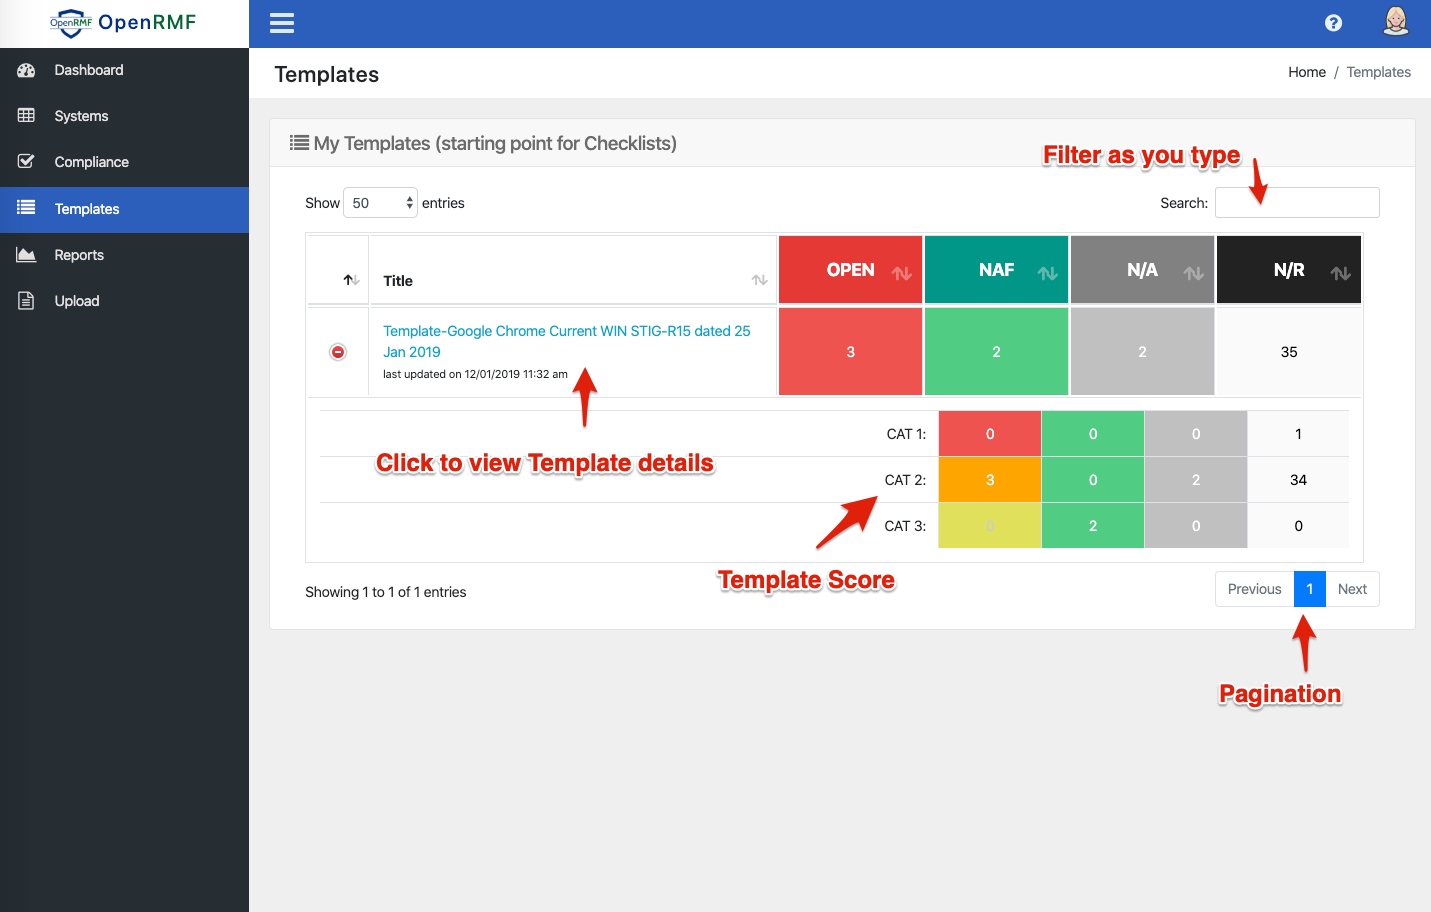
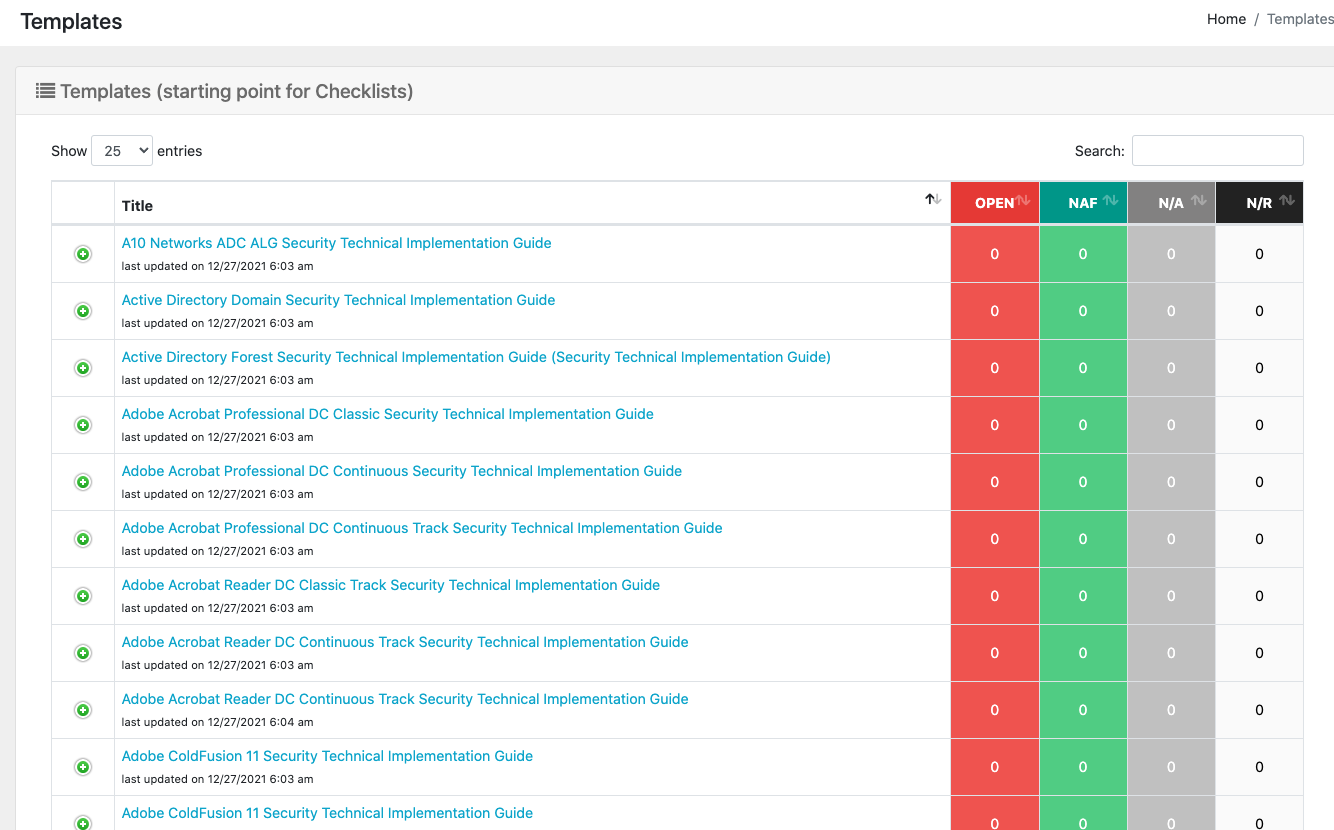
updating help and template listings

diff --git a/help/_site/templates.html b/help/_site/templates.html
@@ -1,1 +1,1 @@
-<!DOCTYPE html> <html lang="en-US"> <head> <meta charset="UTF-8"> <meta http-equiv="X-UA-Compatible" content="IE=Edge"> <title>Using Template Checklists - OpenRMF Docs</title> <link rel="shortcut icon" href="/help/favicon.ico" type="image/x-icon"> <link rel="stylesheet" href="/help/assets/css/just-the-docs-default.css"> <script type="text/javascript" src="/help/assets/js/vendor/lunr.min.js"></script> <script type="text/javascript" src="/help/assets/js/just-the-docs.js"></script> <meta name="viewport" content="width=device-width, initial-scale=1"> <!-- Begin Jekyll SEO tag v2.6.1 --> <title>Using Template Checklists | OpenRMF Docs</title> <meta name="generator" content="Jekyll v4.1.1" /> <meta property="og:title" content="Using Template Checklists" /> <meta property="og:locale" content="en_US" /> <meta name="description" content="OpenRMF is the only open source tool to manage your DoD STIG checklists, generate NIST compliance, keep track of your security items that are Open or Not Reviewed, and shrink your timeline to submit for an ATO!" /> <meta property="og:description" content="OpenRMF is the only open source tool to manage your DoD STIG checklists, generate NIST compliance, keep track of your security items that are Open or Not Reviewed, and shrink your timeline to submit for an ATO!" /> <meta property="og:site_name" content="OpenRMF Docs" /> <script type="application/ld+json"> {"url":"/help/templates.html","description":"OpenRMF is the only open source tool to manage your DoD STIG checklists, generate NIST compliance, keep track of your security items that are Open or Not Reviewed, and shrink your timeline to submit for an ATO!","headline":"Using Template Checklists","@type":"WebPage","@context":"https://schema.org"}</script> <!-- End Jekyll SEO tag --> </head> <body> <svg xmlns="http://www.w3.org/2000/svg" style="display: none;"> <symbol id="svg-link" viewBox="0 0 24 24"> <title>Link</title> <svg xmlns="http://www.w3.org/2000/svg" width="24" height="24" viewBox="0 0 24 24" fill="none" stroke="currentColor" stroke-width="2" stroke-linecap="round" stroke-linejoin="round" class="feather feather-link"> <path d="M10 13a5 5 0 0 0 7.54.54l3-3a5 5 0 0 0-7.07-7.07l-1.72 1.71"></path><path d="M14 11a5 5 0 0 0-7.54-.54l-3 3a5 5 0 0 0 7.07 7.07l1.71-1.71"></path> </svg> </symbol> <symbol id="svg-search" viewBox="0 0 24 24"> <title>Search</title> <svg xmlns="http://www.w3.org/2000/svg" width="24" height="24" viewBox="0 0 24 24" fill="none" stroke="currentColor" stroke-width="2" stroke-linecap="round" stroke-linejoin="round" class="feather feather-search"> <circle cx="11" cy="11" r="8"></circle><line x1="21" y1="21" x2="16.65" y2="16.65"></line> </svg> </symbol> <symbol id="svg-menu" viewBox="0 0 24 24"> <title>Menu</title> <svg xmlns="http://www.w3.org/2000/svg" width="24" height="24" viewBox="0 0 24 24" fill="none" stroke="currentColor" stroke-width="2" stroke-linecap="round" stroke-linejoin="round" class="feather feather-menu"> <line x1="3" y1="12" x2="21" y2="12"></line><line x1="3" y1="6" x2="21" y2="6"></line><line x1="3" y1="18" x2="21" y2="18"></line> </svg> </symbol> <symbol id="svg-arrow-right" viewBox="0 0 24 24"> <title>Expand</title> <svg xmlns="http://www.w3.org/2000/svg" width="24" height="24" viewBox="0 0 24 24" fill="none" stroke="currentColor" stroke-width="2" stroke-linecap="round" stroke-linejoin="round" class="feather feather-chevron-right"> <polyline points="9 18 15 12 9 6"></polyline> </svg> </symbol> <symbol id="svg-doc" viewBox="0 0 24 24"> <title>Document</title> <svg xmlns="http://www.w3.org/2000/svg" width="24" height="24" viewBox="0 0 24 24" fill="none" stroke="currentColor" stroke-width="2" stroke-linecap="round" stroke-linejoin="round" class="feather feather-file"> <path d="M13 2H6a2 2 0 0 0-2 2v16a2 2 0 0 0 2 2h12a2 2 0 0 0 2-2V9z"></path><polyline points="13 2 13 9 20 9"></polyline> </svg> </symbol> </svg> <div class="side-bar"> <div class="site-header"> <a href="/help/" class="site-title lh-tight"> OpenRMF Docs </a> <a href="#" id="menu-button" class="site-button"> <svg viewBox="0 0 24 24" class="icon"><use xlink:href="#svg-menu"></use></svg> </a> </div> <nav role="navigation" aria-label="Main" id="site-nav" class="site-nav"> <ul class="nav-list"><li class="nav-list-item"><a href="/help/" class="nav-list-link">OpenRMF Introduction</a></li><li class="nav-list-item"><a href="/help/whatsnew.html" class="nav-list-link">What's New in v1.7</a></li><li class="nav-list-item"><a href="/help/navigation.html" class="nav-list-link">Navigation in OpenRMF</a></li><li class="nav-list-item"><a href="/help/uploading.html" class="nav-list-link">Step 1 - Uploading</a></li><li class="nav-list-item"><a href="/help/dashboard.html" class="nav-list-link">Step 2 - Your Dashboard</a></li><li class="nav-list-item"><a href="/help/systems.html" class="nav-list-link">Step 3 - View Systems</a></li><li class="nav-list-item"><a href="/help/checklists.html" class="nav-list-link">Step 4 - View Checklists</a></li><li class="nav-list-item"><a href="/help/compliance.html" class="nav-list-link">Step 5 - Compliance Report</a></li><li class="nav-list-item"><a href="/help/artifacts.html" class="nav-list-link">Step 6 - Generate RMF Artifacts</a></li><li class="nav-list-item active"><a href="/help/templates.html" class="nav-list-link active">Using Template Checklists</a></li><li class="nav-list-item"><a href="/help/reports.html" class="nav-list-link">OpenRMF Reports</a></li><li class="nav-list-item"><a href="/help/metrics.html" class="nav-list-link">OpenRMF Metrics</a></li><li class="nav-list-item"><a href="/help/users.html" class="nav-list-link">User Profile</a></li></ul> </nav> <footer class="site-footer"> This site uses <a href="https://github.com/pmarsceill/just-the-docs">Just the Docs</a>, a documentation theme for Jekyll. </footer> </div> <div class="main" id="top"> <div id="main-header" class="main-header"> <div class="search"> <div class="search-input-wrap"> <input type="text" id="search-input" class="search-input" tabindex="0" placeholder="Search OpenRMF Docs" aria-label="Search OpenRMF Docs" autocomplete="off"> <label for="search-input" class="search-label"><svg viewBox="0 0 24 24" class="search-icon"><use xlink:href="#svg-search"></use></svg></label> </div> <div id="search-results" class="search-results"></div> </div> <nav aria-label="Auxiliary" class="aux-nav"> <ul class="aux-nav-list"> <li class="aux-nav-list-item"> <a href="//www.openrmf.io/" class="site-button" > openrmf.io </a> </li> <li class="aux-nav-list-item"> <a href="//github.com/cingulara/openrmf-docs/" class="site-button" > Code on GitHub </a> </li> <li class="aux-nav-list-item"> <a href="https://join.slack.com/t/openrmftool/shared_invite/zt-ck8lqld0-8LD7k66mzj7WsIno9YFrMg" class="site-button" > Slack </a> </li> </ul> </nav> </div> <div id="main-content-wrap" class="main-content-wrap"> <div id="main-content" class="main-content" role="main"> <h1 id="using-templates-for-your-checklists"> <a href="#using-templates-for-your-checklists" class="anchor-heading"><svg viewBox="0 0 16 16" aria-hidden="true"><use xlink:href="#svg-link"></use></svg></a> Using Templates for your Checklists </h1> <p><img src="./assets/templates.png" alt="OpenRMF Templates" /></p> <p>You can use Templates in OpenRMF for a starting point for your checklists. A great example would be you have an infrastructure package and a platform-as-a-service package that your application(s) run on. That infrastructure and PaaS have known good checklists as a baseline that application owners use as a starting point and adjust the remaining vulnerability items accordingly.</p> <p>IT personnel would download this template and then fill out remaining items based on their software or system.</p> <p>The templates are added via the Upload page in the Template Upload area. The Template listing are user templates that those with permissions have added. The Template name as well as the score of items are shown simimlar to the Checklist listing page. Click the linked Template to view the detailed information. Click the green plus sign to view the scoring based on category.</p> <hr> <footer> <p class="text-small text-grey-dk-000 mb-0">Copyright &copy; 2020 Cingulara and Tutela. Distributed by <a href="https://www.openrmf.io" target="_blank">openrmf.io.</a></p> </footer> </div> </div> <div class="search-overlay"></div> </div> </body> </html>
+<!DOCTYPE html> <html lang="en-US"> <head> <meta charset="UTF-8"> <meta http-equiv="X-UA-Compatible" content="IE=Edge"> <title>Using Template Checklists - OpenRMF Docs</title> <link rel="shortcut icon" href="/help/favicon.ico" type="image/x-icon"> <link rel="stylesheet" href="/help/assets/css/just-the-docs-default.css"> <script type="text/javascript" src="/help/assets/js/vendor/lunr.min.js"></script> <script type="text/javascript" src="/help/assets/js/just-the-docs.js"></script> <meta name="viewport" content="width=device-width, initial-scale=1"> <!-- Begin Jekyll SEO tag v2.6.1 --> <title>Using Template Checklists | OpenRMF Docs</title> <meta name="generator" content="Jekyll v4.1.1" /> <meta property="og:title" content="Using Template Checklists" /> <meta property="og:locale" content="en_US" /> <meta name="description" content="OpenRMF is the only open source tool to manage your DoD STIG checklists, generate NIST compliance, keep track of your security items that are Open or Not Reviewed, and shrink your timeline to submit for an ATO!" /> <meta property="og:description" content="OpenRMF is the only open source tool to manage your DoD STIG checklists, generate NIST compliance, keep track of your security items that are Open or Not Reviewed, and shrink your timeline to submit for an ATO!" /> <meta property="og:site_name" content="OpenRMF Docs" /> <script type="application/ld+json"> {"url":"/help/templates.html","description":"OpenRMF is the only open source tool to manage your DoD STIG checklists, generate NIST compliance, keep track of your security items that are Open or Not Reviewed, and shrink your timeline to submit for an ATO!","headline":"Using Template Checklists","@type":"WebPage","@context":"https://schema.org"}</script> <!-- End Jekyll SEO tag --> </head> <body> <svg xmlns="http://www.w3.org/2000/svg" style="display: none;"> <symbol id="svg-link" viewBox="0 0 24 24"> <title>Link</title> <svg xmlns="http://www.w3.org/2000/svg" width="24" height="24" viewBox="0 0 24 24" fill="none" stroke="currentColor" stroke-width="2" stroke-linecap="round" stroke-linejoin="round" class="feather feather-link"> <path d="M10 13a5 5 0 0 0 7.54.54l3-3a5 5 0 0 0-7.07-7.07l-1.72 1.71"></path><path d="M14 11a5 5 0 0 0-7.54-.54l-3 3a5 5 0 0 0 7.07 7.07l1.71-1.71"></path> </svg> </symbol> <symbol id="svg-search" viewBox="0 0 24 24"> <title>Search</title> <svg xmlns="http://www.w3.org/2000/svg" width="24" height="24" viewBox="0 0 24 24" fill="none" stroke="currentColor" stroke-width="2" stroke-linecap="round" stroke-linejoin="round" class="feather feather-search"> <circle cx="11" cy="11" r="8"></circle><line x1="21" y1="21" x2="16.65" y2="16.65"></line> </svg> </symbol> <symbol id="svg-menu" viewBox="0 0 24 24"> <title>Menu</title> <svg xmlns="http://www.w3.org/2000/svg" width="24" height="24" viewBox="0 0 24 24" fill="none" stroke="currentColor" stroke-width="2" stroke-linecap="round" stroke-linejoin="round" class="feather feather-menu"> <line x1="3" y1="12" x2="21" y2="12"></line><line x1="3" y1="6" x2="21" y2="6"></line><line x1="3" y1="18" x2="21" y2="18"></line> </svg> </symbol> <symbol id="svg-arrow-right" viewBox="0 0 24 24"> <title>Expand</title> <svg xmlns="http://www.w3.org/2000/svg" width="24" height="24" viewBox="0 0 24 24" fill="none" stroke="currentColor" stroke-width="2" stroke-linecap="round" stroke-linejoin="round" class="feather feather-chevron-right"> <polyline points="9 18 15 12 9 6"></polyline> </svg> </symbol> <symbol id="svg-doc" viewBox="0 0 24 24"> <title>Document</title> <svg xmlns="http://www.w3.org/2000/svg" width="24" height="24" viewBox="0 0 24 24" fill="none" stroke="currentColor" stroke-width="2" stroke-linecap="round" stroke-linejoin="round" class="feather feather-file"> <path d="M13 2H6a2 2 0 0 0-2 2v16a2 2 0 0 0 2 2h12a2 2 0 0 0 2-2V9z"></path><polyline points="13 2 13 9 20 9"></polyline> </svg> </symbol> </svg> <div class="side-bar"> <div class="site-header"> <a href="/help/" class="site-title lh-tight"> OpenRMF Docs </a> <a href="#" id="menu-button" class="site-button"> <svg viewBox="0 0 24 24" class="icon"><use xlink:href="#svg-menu"></use></svg> </a> </div> <nav role="navigation" aria-label="Main" id="site-nav" class="site-nav"> <ul class="nav-list"><li class="nav-list-item"><a href="/help/" class="nav-list-link">OpenRMF Introduction</a></li><li class="nav-list-item"><a href="/help/whatsnew.html" class="nav-list-link">What's New in v1.7</a></li><li class="nav-list-item"><a href="/help/navigation.html" class="nav-list-link">Navigation in OpenRMF</a></li><li class="nav-list-item"><a href="/help/uploading.html" class="nav-list-link">Step 1 - Uploading</a></li><li class="nav-list-item"><a href="/help/dashboard.html" class="nav-list-link">Step 2 - Your Dashboard</a></li><li class="nav-list-item"><a href="/help/systems.html" class="nav-list-link">Step 3 - View Systems</a></li><li class="nav-list-item"><a href="/help/checklists.html" class="nav-list-link">Step 4 - View Checklists</a></li><li class="nav-list-item"><a href="/help/compliance.html" class="nav-list-link">Step 5 - Compliance Report</a></li><li class="nav-list-item"><a href="/help/artifacts.html" class="nav-list-link">Step 6 - Generate RMF Artifacts</a></li><li class="nav-list-item active"><a href="/help/templates.html" class="nav-list-link active">Using Template Checklists</a></li><li class="nav-list-item"><a href="/help/reports.html" class="nav-list-link">OpenRMF Reports</a></li><li class="nav-list-item"><a href="/help/metrics.html" class="nav-list-link">OpenRMF Metrics</a></li><li class="nav-list-item"><a href="/help/users.html" class="nav-list-link">User Profile</a></li></ul> </nav> <footer class="site-footer"> This site uses <a href="https://github.com/pmarsceill/just-the-docs">Just the Docs</a>, a documentation theme for Jekyll. </footer> </div> <div class="main" id="top"> <div id="main-header" class="main-header"> <div class="search"> <div class="search-input-wrap"> <input type="text" id="search-input" class="search-input" tabindex="0" placeholder="Search OpenRMF Docs" aria-label="Search OpenRMF Docs" autocomplete="off"> <label for="search-input" class="search-label"><svg viewBox="0 0 24 24" class="search-icon"><use xlink:href="#svg-search"></use></svg></label> </div> <div id="search-results" class="search-results"></div> </div> <nav aria-label="Auxiliary" class="aux-nav"> <ul class="aux-nav-list"> <li class="aux-nav-list-item"> <a href="//www.openrmf.io/" class="site-button" > openrmf.io </a> </li> <li class="aux-nav-list-item"> <a href="//github.com/cingulara/openrmf-docs/" class="site-button" > Code on GitHub </a> </li> <li class="aux-nav-list-item"> <a href="https://join.slack.com/t/openrmftool/shared_invite/zt-ck8lqld0-8LD7k66mzj7WsIno9YFrMg" class="site-button" > Slack </a> </li> </ul> </nav> </div> <div id="main-content-wrap" class="main-content-wrap"> <div id="main-content" class="main-content" role="main"> <h1 id="using-templates-for-your-checklists"> <a href="#using-templates-for-your-checklists" class="anchor-heading"><svg viewBox="0 0 16 16" aria-hidden="true"><use xlink:href="#svg-link"></use></svg></a> Using Templates for your Checklists </h1> <p><img src="./assets/templates.png" alt="OpenRMF Templates" /></p> <p>There are 2 types of templates in OpenRMF<sup>®</sup> OSS as of v1.7. The default DISA templates that are available from their https://public.cyber.mil/stigs/ public listing website. And then there are User Templates that you can upload as a starting point for checklists. User Templates can be from other CKL files you have updated to use as a boilerplate, a custom checklist you make in OpenRMF<sup>®</sup> Professional, or from a default DISA one you have added some special text or details to. In the OpenRMF OSS we include the latest default DISA templates in our template component so you have them for SCAP scans to associate.</p> <p>User Templates are added via the Upload page in the Template Upload area. The User Template listing are user templates that those with permissions have added. The Template name as well as the score of items are shown simimlar to the Checklist listing page. Click the linked Template to view the detailed information. Click the green plus sign to view the scoring based on category.</p> <p>You can use Templates in OpenRMF<sup>®</sup> for a starting point for your checklists. A great example would be you have an infrastructure package and a platform-as-a-service package that your application(s) run on. That infrastructure and PaaS have known good checklists as a baseline that application owners use as a starting point and adjust the remaining vulnerability items accordingly.</p> <p>IT personnel would download this template and then fill out remaining items based on their software or system.</p> <hr> <footer> <p class="text-small text-grey-dk-000 mb-0">Copyright &copy; 2020 Cingulara and Tutela. Distributed by <a href="https://www.openrmf.io" target="_blank">openrmf.io.</a></p> </footer> </div> </div> <div class="search-overlay"></div> </div> </body> </html>

diff --git a/js/openrmf.js b/js/openrmf.js
@@ -280,51 +280,63 @@ async function getTemplates(latest) {
 					checklistLink += moment(item.created).format('MM/DD/YYYY h:mm a');
 				}
 				checklistLink += "</span>";
-				// now get the score
-				var score = null;
-				var formData = new FormData();
-				formData.append("rawChecklist", item.rawChecklist);
-				$.ajax({
-					url : scoreAPI,
-					data : formData,
-					async: false,
-					type : 'POST',
-					processData: false,
-					contentType: false,
-					beforeSend: function(request) {
-						request.setRequestHeader("Authorization", 'Bearer ' + keycloak.token);
-					},
-					success : function(data){
-						score = data;
-						if (score) {
-							// dynamically add to the datatable but only show main data, click the + for extra data
-							table.row.add( { "title": checklistLink, 
-								"totalNaF": score.totalNotAFinding, "totalNA": score.totalNotApplicable, "totalOpen": score.totalOpen, "totalNR": score.totalNotReviewed,
-								"totalNaFCat1": score.totalCat1NotAFinding, "totalNACat1": score.totalCat1NotApplicable, "totalOpenCat1": score.totalCat1Open, "totalNRCat1": score.totalCat1NotReviewed,
-								"totalNaFCat2": score.totalCat2NotAFinding, "totalNACat2": score.totalCat2NotApplicable, "totalOpenCat2": score.totalCat2Open, "totalNRCat2": score.totalCat2NotReviewed,
-								"totalNaFCat3": score.totalCat3NotAFinding, "totalNACat3": score.totalCat3NotApplicable, "totalOpenCat3": intOpenCat2 = score.totalCat3Open, "totalNRCat3": score.totalCat3NotReviewed
-							}).draw();
-						}
-						else {
-							table.row.add( { "title": checklistLink, 
-								"totalNaF": 0, "totalNA": 0, "totalOpen": 0, "totalNR": 0,
-								"totalNaFCat1": 0, "totalNACat1": 0, "totalOpenCat1": 0, "totalNRCat1": 0,
-								"totalNaFCat2": 0, "totalNACat2": 0, "totalOpenCat2": 0, "totalNRCat2": 0,
-								"totalNaFCat3": 0, "totalNACat3": 0, "totalOpenCat3": 0, "totalNRCat3": 0
-							}).draw();
-						}
-						$.unblockUI();
-					},
-				error: function() {
+
+				// if not a SYSTEM templateType, then get the score; else just fill the table with the listing
+				if (item.templateType == "SYSTEM") {
 					table.row.add( { "title": checklistLink, 
 						"totalNaF": 0, "totalNA": 0, "totalOpen": 0, "totalNR": 0,
 						"totalNaFCat1": 0, "totalNACat1": 0, "totalOpenCat1": 0, "totalNRCat1": 0,
 						"totalNaFCat2": 0, "totalNACat2": 0, "totalOpenCat2": 0, "totalNRCat2": 0,
 						"totalNaFCat3": 0, "totalNACat3": 0, "totalOpenCat3": 0, "totalNRCat3": 0
 					}).draw();
-					$.unblockUI();
-				}});
+				} else {
+					// now get the score
+					var score = null;
+					var formData = new FormData();
+					formData.append("rawChecklist", item.rawChecklist);
+					$.ajax({
+						url : scoreAPI,
+						data : formData,
+						async: false,
+						type : 'POST',
+						processData: false,
+						contentType: false,
+						beforeSend: function(request) {
+							request.setRequestHeader("Authorization", 'Bearer ' + keycloak.token);
+						},
+						success : function(data){
+							score = data;
+							if (score) {
+								// dynamically add to the datatable but only show main data, click the + for extra data
+								table.row.add( { "title": checklistLink, 
+									"totalNaF": score.totalNotAFinding, "totalNA": score.totalNotApplicable, "totalOpen": score.totalOpen, "totalNR": score.totalNotReviewed,
+									"totalNaFCat1": score.totalCat1NotAFinding, "totalNACat1": score.totalCat1NotApplicable, "totalOpenCat1": score.totalCat1Open, "totalNRCat1": score.totalCat1NotReviewed,
+									"totalNaFCat2": score.totalCat2NotAFinding, "totalNACat2": score.totalCat2NotApplicable, "totalOpenCat2": score.totalCat2Open, "totalNRCat2": score.totalCat2NotReviewed,
+									"totalNaFCat3": score.totalCat3NotAFinding, "totalNACat3": score.totalCat3NotApplicable, "totalOpenCat3": intOpenCat2 = score.totalCat3Open, "totalNRCat3": score.totalCat3NotReviewed
+								}).draw();
+							}
+							else {
+								table.row.add( { "title": checklistLink, 
+									"totalNaF": 0, "totalNA": 0, "totalOpen": 0, "totalNR": 0,
+									"totalNaFCat1": 0, "totalNACat1": 0, "totalOpenCat1": 0, "totalNRCat1": 0,
+									"totalNaFCat2": 0, "totalNACat2": 0, "totalOpenCat2": 0, "totalNRCat2": 0,
+									"totalNaFCat3": 0, "totalNACat3": 0, "totalOpenCat3": 0, "totalNRCat3": 0
+								}).draw();
+							}
+							$.unblockUI();
+						},
+					error: function() {
+						table.row.add( { "title": checklistLink, 
+							"totalNaF": 0, "totalNA": 0, "totalOpen": 0, "totalNR": 0,
+							"totalNaFCat1": 0, "totalNACat1": 0, "totalOpenCat1": 0, "totalNRCat1": 0,
+							"totalNaFCat2": 0, "totalNACat2": 0, "totalOpenCat2": 0, "totalNRCat2": 0,
+							"totalNaFCat3": 0, "totalNACat3": 0, "totalOpenCat3": 0, "totalNRCat3": 0
+						}).draw();
+						$.unblockUI();
+					}});
+				}
 			}
+			$.unblockUI();
 		}
 	}
 	else {

diff --git a/help/templates.md b/help/templates.md
@@ -8,9 +8,10 @@ nav_order: 500
 
 ![OpenRMF Templates](./assets/templates.png)
 
-You can use Templates in OpenRMF for a starting point for your checklists. A great example would be you have an infrastructure package and a platform-as-a-service package that your application(s) run on. That infrastructure and PaaS have known good checklists as a baseline that application owners use as a starting point and adjust the remaining vulnerability items accordingly. 
+There are 2 types of templates in OpenRMF<sup>&reg;</sup> OSS as of v1.7. The default DISA templates that are available from their https://public.cyber.mil/stigs/ public listing website. And then there are User Templates that you can upload as a starting point for checklists. User Templates can be from other CKL files you have updated to use as a boilerplate, a custom checklist you make in OpenRMF<sup>&reg;</sup> Professional, or from a default DISA one you have added some special text or details to. In the OpenRMF OSS we include the latest default DISA templates in our template component so you have them for SCAP scans to associate.
+
+User Templates are added via the Upload page in the Template Upload area. The User Template listing are user templates that those with permissions have added. The Template name as well as the score of items are shown simimlar to the Checklist listing page. Click the linked Template to view the detailed information. Click the green plus sign to view the scoring based on category. 
+
+You can use Templates in OpenRMF<sup>&reg;</sup> for a starting point for your checklists. A great example would be you have an infrastructure package and a platform-as-a-service package that your application(s) run on. That infrastructure and PaaS have known good checklists as a baseline that application owners use as a starting point and adjust the remaining vulnerability items accordingly. 
 
 IT personnel would download this template and then fill out remaining items based on their software or system.
-
-
-The templates are added via the Upload page in the Template Upload area. The Template listing are user templates that those with permissions have added. The Template name as well as the score of items are shown simimlar to the Checklist listing page. Click the linked Template to view the detailed information. Click the green plus sign to view the scoring based on category. 
